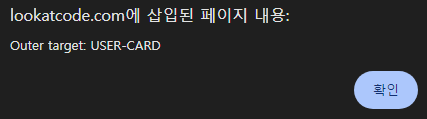
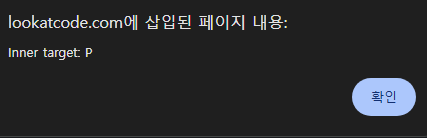
ㅇ

diff --git a/languages/javascript/modern javascript tutorial/part3. Additional articles/06. Web components/07. Shadow DOM and events.md b/languages/javascript/modern javascript tutorial/part3. Additional articles/06. Web components/07. Shadow DOM and events.md
@@ -15,10 +15,10 @@ Shadow DOM 이벤트
       this.shadowRoot.innerHTML = `
         <p>
           <button>Click me</button>
-        </p>`
-      ;
+        </p>
+      `;
 
-      // 내부 이벤트 발생 요소명 출력
+      // 내부 렌더링 요소 (이벤트 발생) 이름 출력
       this.shadowRoot.firstElementChild.onclick = function(e) {
         alert("Inner target: " + e.target.tagName);
       }
@@ -38,6 +38,8 @@ Shadow DOM 이벤트
 
 ![shadow-dom-and-events-1-3](../../images/03/06/07/shadow-dom-and-events-1-3.png)
 
+![shadow-dom-and-events-1-4](../../images/03/06/07/shadow-dom-and-events-1-4.png)
+
 ##### 1. 내부 핸들러 <sub>(컴포넌트 · Shadow DOM)</sub>
 - 이벤트 발생 요소 <sub>(타겟)</sub>
 - `Inner target: BUTTON`
@@ -50,10 +52,12 @@ Shadow DOM 이벤트
 - 컴포넌트 외부 <sub>(문서 · Light DOM)</sub>
   - 컴포넌트 내부 정보 무관
 
-#### `slot` 내 렌더링 요소 <sub>(Light DOM)</sub>
+#### `slot` 내부 렌더링 요소 <sub>(Light DOM)</sub>
 
 ##### 타겟 재조정 X
 - 문서 <sub>(Light DOM)</sub> 내 위치
+- 컴포넌트 <sub>(Shwdow DOM)</sub> 내 위치 X
+  - 렌더링만 수행
 
 ##### `<span slot="username">` 클릭 이벤트
 - 문서 <sub>(Light DOM)</sub> 내 위치 <sub>(타겟 재조정 X)</sub>
@@ -71,8 +75,8 @@ customElements.define('user-card', class extends HTMLElement {
       <div>
         <b>Name:</b>
         <slot name="username"></slot>
-      </div>`
-    ;
+      </div>
+    `;
 
     this.shadowRoot.firstElementChild.onclick = function(e) {
       alert("Inner target: " + e.target.tagName);
@@ -86,14 +90,24 @@ userCard.onclick = function(e) {
 </script>
 ```
 
-![shadow-dom-and-events-2](../../images/03/06/07/shadow-dom-and-events-2.png)
+![shadow-dom-and-events-2-1](../../images/03/06/07/shadow-dom-and-events-2-1.png)
+
+##### `<b>Name:</b>` 클릭
+![shadow-dom-and-events-2-2](../../images/03/06/07/shadow-dom-and-events-2-2.png)
+
+![shadow-dom-and-events-2-3](../../images/03/06/07/shadow-dom-and-events-2-3.png)
+
+##### `<span slot="username">John Smith</span>` 클릭
+![shadow-dom-and-events-2-4](../../images/03/06/07/shadow-dom-and-events-2-4.png)
+
+![shadow-dom-and-events-2-5](../../images/03/06/07/shadow-dom-and-events-2-5.png)
 
 ### 버블링 · `event.composedPath()`
 
 ##### 평탄화 DOM
 - 컴포넌트 내 발생 이벤트 처리 시 사용
 
-##### `slot` 내 렌더링 요소 내 발생 이벤트 버블링 순서
+##### `slot` 내부 렌더링 요소 내 발생 이벤트 버블링 순서
 - 타겟 → … → `<slot>` → … → 문서 최상위
 
 ##### `event.composedPath()` <sub>(메서드)</sub>
